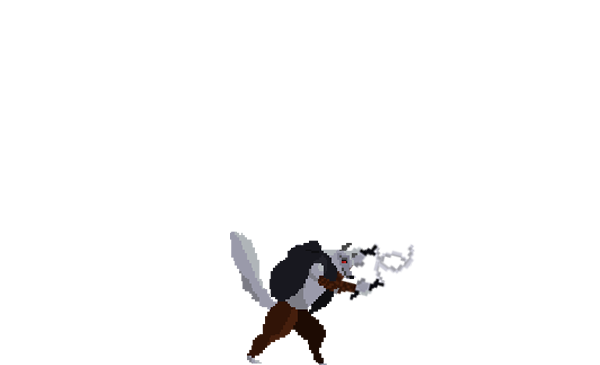
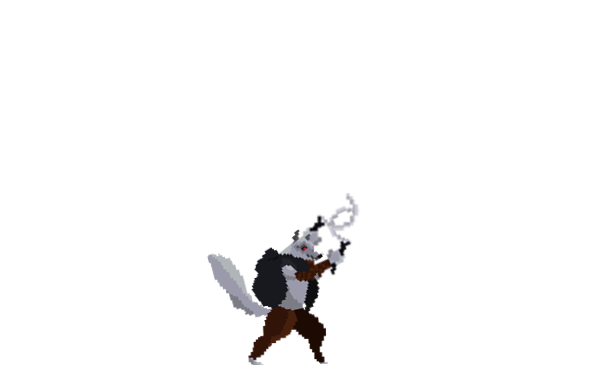
pls fix effect on block

Changed region(s): [[0.33, 0.5123, 0.69, 1.0], [0.51, 0.9342, 0.57, 1.0]]

diff --git a/cannvas.html b/cannvas.html
@@ -330,17 +330,30 @@ body{
 </div>
 
 <p id="playerHitBoxBox">boxbox</p>
-<p class="hitBoxCords" id="XL">XL</p>
-<p class="hitBoxCords" id="XR">XR</p>
-<p class="hitBoxCords" id="YT">YT</p>
-<p class="hitBoxCords" id="YB">YB</p>
-<p class="hitBoxCords" id="PC">PC</p>
+<p class="hitBoxCords" id="XL"></p>
+<p class="hitBoxCords" id="XR"></p>
+<p class="hitBoxCords" id="YT"></p>
+<p class="hitBoxCords" id="YB"></p>
+<p class="hitBoxCords" id="PC"></p>
+<p class="hitBoxCords" id="PHE"></p>
 <p id="enemyHitBoxBox">Test</p>
-<p class="hitBoxCords" id="XL">XL</p>
-<p class="hitBoxCords" id="XR">XR</p>
-<p class="hitBoxCords" id="YT">YT</p>
-<p class="hitBoxCords" id="YB">YB</p>
-<p class="hitBoxCords" id="EC">EC</p>
+<p class="hitBoxCords" id="XL"></p>
+<p class="hitBoxCords" id="XR"></p>
+<p class="hitBoxCords" id="YT"></p>
+<p class="hitBoxCords" id="YB"></p>
+<p class="hitBoxCords" id="EC"></p>
+<p class="hitBoxCords" id="EHE"></p>
+
+<!-- //EFFECTS -->
+<img  class="sprite hitOrange" src="./assets/effects/hitOrange/hitOrange_0.png">
+<img  class="sprite hitOrange" src="./assets/effects/hitOrange/hitOrange_1.png">
+<img  class="sprite hitOrange" src="./assets/effects/hitOrange/hitOrange_2.png">
+<img  class="sprite hitOrange" src="./assets/effects/hitOrange/hitOrange_3.png">
+
+<img  class="sprite hitYellow" src="./assets/effects/hitYellow/hitYellow_0.png">
+<img  class="sprite hitYellow" src="./assets/effects/hitYellow/hitYellow_1.png">
+<img  class="sprite hitYellow" src="./assets/effects/hitYellow/hitYellow_2.png">
+<img  class="sprite hitYellow" src="./assets/effects/hitYellow/hitYellow_3.png">
 
 <!-- //Samurai -->
 <img  class="sprite samuraiIdle" src="./characters/samurai/idle/idle_0.png">
@@ -643,13 +656,13 @@ body{
     let borderRight = window.innerWidth;
     // <------------------ CHARACTER SELECT ------------------->
     // let chosenCharacter = "samurai";
-    // let chosenCharacter = "kenji";
+    // let chosenCharacter = "kenji"; 
     // let chosenCharacter = "knight";
-    // let chosenCharacter = "akaza";
-    // let chosenCharacter = "anakin";
+    let chosenCharacter = "akaza";
+    // let chosenCharacter = "anakin"; 
     // let chosenCharacter = "rambo";
     // let chosenCharacter = "law";
-    let chosenCharacter = "death";
+    // let chosenCharacter = "death";
     // <------------------ ENEMY SELECT ------------------->
     // let chosenEnemy = "samurai";
     // let chosenEnemy = "kenji";
@@ -712,6 +725,10 @@ body{
     let pAttackFCounter = 0;  // Keeps track of the current frame
     let eAttackFCounter = 0;  // Keeps track of the current frame
 
+    //Effect counter for when hit while blocked
+    let pEffectOrangeFCounter = 2;
+    let eEffectOrangeFCounter = 0;
+
     let pDeathFCounter = 0;
     let eDeathFCounter = 0;
     
@@ -753,6 +770,8 @@ body{
         let hitBoxYB;
 
         let hitBoxCenter;
+        let effectBoxX;
+        let effectBoxY;
 
         
         this.attack = function(){
@@ -760,6 +779,7 @@ body{
                 this.isAttacking = true;
                 this.cooldown = true;
             }
+
             setTimeout(() => {
                 this.isAttacking = false;
                 if (this === player) {     
@@ -832,11 +852,18 @@ body{
             }else{
                 console.log(this.name+" Blocked the Attack!");
                 this.blockCounter--;
-                console.log('blockCounter--: ', this.blockCounter);
+                console.log("Calling Effect!");
+                effectDraw(this.name);
+                console.log('this.name: ', this.name);
+                // console.log('blockCounter--: ', this.blockCounter);
+                //  drawEffect(effectOrangeF[2], player.hitBoxCenter+20, player.hitBoxYT+20, "player");
+                //  console.log('effectOrangeF: ', effectOrangeF[2]);
+
+
                 this.block();//to check status and unblock if blockCounter is 0
             }
         }
-
+        //To check block limit
         this.block = function(){
             
             if(this.blockCounter > 0 && !this.isMoving){
@@ -969,6 +996,10 @@ body{
         glareClassP.style.display = "none"; // Removes from layout
         glareClassE = document.querySelector('.glareE');
         glareClassE.style.display = "none"; // Removes from layout
+
+        //Load Effect Frames
+        effectOrangeF = document.querySelectorAll(".hitOrange");
+        effectYellowF = document.querySelectorAll(".hitYellow");
 
         //LOAD FRAMES CHARACTER
         if(chosenCharacter === "samurai"){
@@ -1120,7 +1151,7 @@ body{
 
         // Track keydown and keyup events
         window.addEventListener('keydown', (event) => {
-            console.log("Key Pressed: ", event.key);
+            // console.log("Key Pressed: ", event.key);
             //lOWER CASE SO THAT IT WORKS FOR BOTH UPPER AND LOWER CASE KEYS
             if(event.key === "A" || event.key === "D" || event.key === "W" || event.key === "S"){
                 keysPressed.add(event.key.toLowerCase());
@@ -1155,6 +1186,30 @@ body{
             }
             
         }, 50);
+        //Blocking Effect Frame Interval
+        setInterval(() => {
+            if(enemy.isAttacking || !enemy.isAttacking){
+
+                if(pEffectOrangeFCounter < 4){
+                    // pEffectOrangeFCounter++;
+                }
+                
+            }else{
+                pEffectOrangeFCounter = 2;
+
+            }
+            if(player.isAttacking){
+
+                if(eEffectOrangeFCounter < 4){
+                    eEffectOrangeFCounter++;
+                }
+                
+            }else{
+                eEffectOrangeFCounter = 0;
+
+            }
+            
+        }, 100);
         //Taking Hit Frame Interval
         setInterval(() => {
             if(player.isTakingHit){
@@ -1216,11 +1271,13 @@ body{
         playerDraw();
         enemyDraw();
 
+        // drawEffect(effectOrangeF[1], player.hitBoxCenter+20, player.hitBoxYT+20, "player");
+        // drawEffect(effectOrangeF[1], enemy.hitBoxCenter-20, enemy.hitBoxYT-20, "enemy");
+
 
         if(!winnerDeclared){
-            
             checkHealth();   
-            
+            getFlipped();
             getPlayerAttackBoxAndHitBox();
             getEnemyAttackBoxAndHitBox();
         }
@@ -1228,7 +1285,7 @@ body{
         if(debug === true){
             debugPlayerAttackBoxAndHitBox();
             debugEnemyAttackBoxAndHitBox();
-            for (let i = 0; i < 10; i++) { // Loop from 0 to 9
+            for (let i = 0; i < 12; i++) { // Loop from 0 to 11
                 hitBoxCords[i].style.display = "block";
             }
             playerHitBoxBox.style.display = "block";
@@ -1238,25 +1295,41 @@ body{
         
         window.requestAnimationFrame(gameLoop); // Keep requesting new frames
     }
+
+    function effectDraw(character){
+
+        console.log('Effectdraw function  called by character: ', character);
+
+        if(character === "player"){
+            console.log("Drawing Player Effect");
+            console.log('pEffectOrangeFCounter: ', pEffectOrangeFCounter);
+            console.log(effectOrangeF[pEffectOrangeFCounter]);
+            drawEffect(effectOrangeF[pEffectOrangeFCounter], player.hitBoxCenter+20, player.hitBoxYT+20, "player");
+        }else if(character === "enemy"){
+            console.log("Drawing Enemy Effect");
+            drawEffect(effectOrangeF[eEffectOrangeFCounter], enemy.hitBoxCenter-20, enemy.hitBoxYT-20, "enemy");
+        }
+    }
+
     function playerDraw(){
         if (player.isDead){
-            drawDeath(pDeathF[pDeathFCounter],player.x,player.y);
+            drawDeath(pDeathF[pDeathFCounter],player.x,player.y,"player");
             return;
         }
         if (player.isAttacking){
-            drawAttack(pAttackF[pAttackFCounter],player.x,player.y); 
+            drawAttack(pAttackF[pAttackFCounter],player.x,player.y,"player"); 
         }
         if (player.isBlocking){
-            drawBlock(pBlockF,player.x,player.y); 
+            drawBlock(pBlockF,player.x,player.y,"player"); 
         }
         if (player.isTakingHit && !player.isAttacking){
-            drawTakeHit(pTakeHitF[pTakeHitFCounter],player.x,player.y); 
+            drawTakeHit(pTakeHitF[pTakeHitFCounter],player.x,player.y,"player"); 
         }
         else if (player.isMoving && !player.isAttacking) {
-            drawMove(pMoveF[pMoveFCounter],player.x,player.y);
+            drawMove(pMoveF[pMoveFCounter],player.x,player.y,"player");
         } 
         else if (player.isFalling) {
-            drawFall(pFallF,player.x,player.y);
+            drawFall(pFallF,player.x,player.y,"player");
         } 
         else if(!player.isAttacking && !player.isFalling && !player.isMoving && !player.isDashing && !player.isDead && !player.isBlocking) { 
             drawIdle(pIdle,player.x,player.y,"player"); 
@@ -1359,6 +1432,26 @@ body{
         }
     }
 
+    //Draw effect
+    function drawEffect(effectImg, x, y, name){
+        console.log("Drawing Effect ");
+        console.log(effectImg);
+        console.log(x);
+        console.log(y);
+        console.log(name);
+        if(name === "enemy" && !enemy.isFlipped || name === "player" && player.isFlipped){
+            context.save();
+            context.translate(x + width, y);
+            context.scale(-1, 1);
+            context.drawImage(effectImg, 0, 0);
+            context.restore();
+        }else{
+            context.drawImage(effectImg, x, y);
+            
+        }
+
+    }
+
     //FLip when enemy calls this function
     function drawIdle(charImg, x, y, name) {
         if(name === "enemy" && !enemy.isFlipped || name === "player" && player.isFlipped){
@@ -1386,6 +1479,7 @@ body{
             
         }
     }
+
     function drawBlock(charBlock,x, y, name) {
         if(name === "enemy" && !enemy.isFlipped || name === "player" && player.isFlipped){
             context.save();
@@ -1450,7 +1544,17 @@ body{
             
         }
     }
-    
+
+    function getFlipped(){
+        if(player.hitBoxCenter > enemy.hitBoxCenter){
+            player.isFlipped = true;
+            enemy.isFlipped = true;
+        }else{
+            player.isFlipped = false;
+            enemy.isFlipped = false;
+        }
+    }
+
     function getPlayerAttackBoxAndHitBox(){
         
         //Left X
@@ -1463,8 +1567,11 @@ body{
         player.hitBoxYB = Math.floor(player.y+height);
  
         //Center
-        player.hitBoxCenter = (player.hitBoxXL + player.hitBoxXR) / 2;
-        
+        player.hitBoxCenter = (player.hitBoxXL + player.hitBoxXR) / 2;        
+
+        player.effectBoxX = player.hitBoxXR;
+        player.effectBoxY = (player.hitBoxYB + player.hitBoxYT) / 2.25;
+
         player.attackRangeS = player.hitBoxXR ;
         player.attackRangeE = player.attackRangeS + (width/3);
         player.attackRangeT = player.hitBoxYT;
@@ -1472,13 +1579,6 @@ body{
 
         player.attackRange = Math.abs(player.attackRangeE - player.attackRangeS);
         
-        if(player.hitBoxCenter > enemy.hitBoxCenter){
-            player.isFlipped = true;
-            enemy.isFlipped = true;
-        }else{
-            player.isFlipped = false;
-            enemy.isFlipped = false;
-        }
         //WHen flip
         if(player.isFlipped){
             player.attackRangeS = player.hitBoxXL - player.attackRange;
@@ -1500,6 +1600,9 @@ body{
         
         //Center
         enemy.hitBoxCenter = (enemy.hitBoxXL + enemy.hitBoxXR) / 2;
+
+        enemy.effectBoxX = enemy.hitBoxXL;
+        enemy.effectBoxY = (enemy.hitBoxYB + enemy.hitBoxYT) / 2.25;
  
         enemy.attackRangeS = enemy.hitBoxXL;
         enemy.attackRangeE = enemy.attackRangeS - (width/3);
@@ -1561,6 +1664,13 @@ body{
             hitBoxCords[8].style.left = player.hitBoxCenter+"px";
             hitBoxCords[8].innerText = player.hitBoxCenter;
             
+        // //Effectbox
+            context.lineWidth = "10";
+            context.strokeStyle = "blue";
+            context.strokeRect(player.effectBoxX, player.effectBoxY, 1 ,1);
+            hitBoxCords[10].style.top = player.effectBoxY+"px";
+            hitBoxCords[10].style.left = player.effectBoxX+"px";
+            
 
         playerHitBoxBox.innerText = "Left X:"+player.hitBoxXL+"\n"+"Right X:"+player.hitBoxXR+"\n"+"Top Y:"+player.hitBoxYT+"\n"+"Bottom Y:"+player.hitBoxYB+"\n"+"Center:"+player.hitBoxCenter+"\n" + "Attack Range:" +  (player.attackRangeS - player.attackRangeE);
     
@@ -1621,6 +1731,14 @@ body{
             hitBoxCords[9].style.left = enemy.hitBoxCenter+"px";
             hitBoxCords[9].innerText = enemy.hitBoxCenter;
 
+        // //Effectbox
+            context.lineWidth = "10";
+            context.strokeStyle = "blue";
+            context.strokeRect(enemy.effectBoxX, enemy.effectBoxY, 1 ,1);
+            hitBoxCords[11].style.top = enemy.effectBoxY+"px";
+            hitBoxCords[11].style.left = enemy.effectBoxX+"px";
+            
+
             
         pEnemyHitBoxBox.innerText = "Left X:"+enemy.hitBoxXL+"\n"+"Right X:"+enemy.hitBoxXR+"\n"+"Top Y:"+enemy.hitBoxYT+"\n"+"Bottom Y:"+enemy.hitBoxYB+"\n"+"Center:"+enemy.hitBoxCenter+"\n" + "Attack Range:" +  (enemy.attackRangeS - enemy.attackRangeE);    
 
@@ -1629,7 +1747,8 @@ body{
         // context.strokeStyle = "blue";
         // context.strokeRect(enemy.x,enemy.y,width,height);
     }
-
+    
+    
     function startCountdown(){
         const interval = setInterval(() => {
             countdownDuration--;
